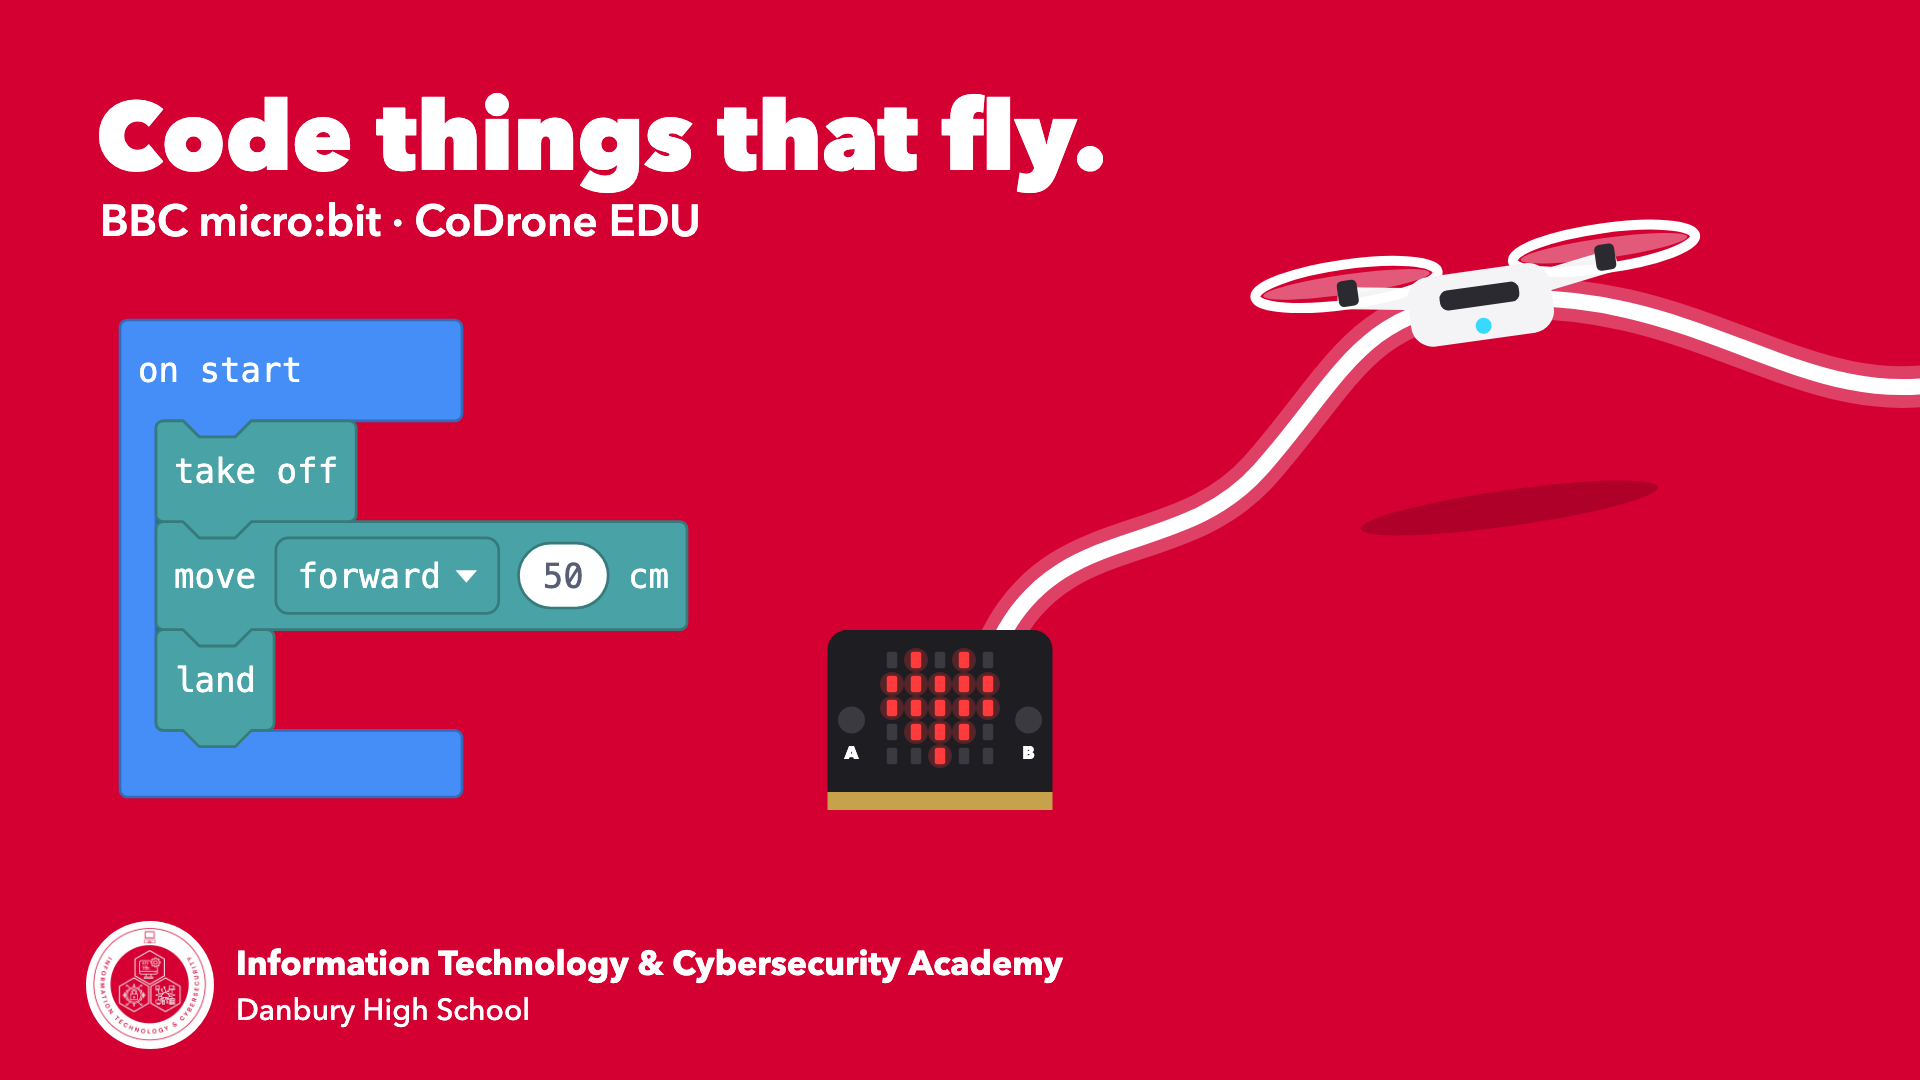
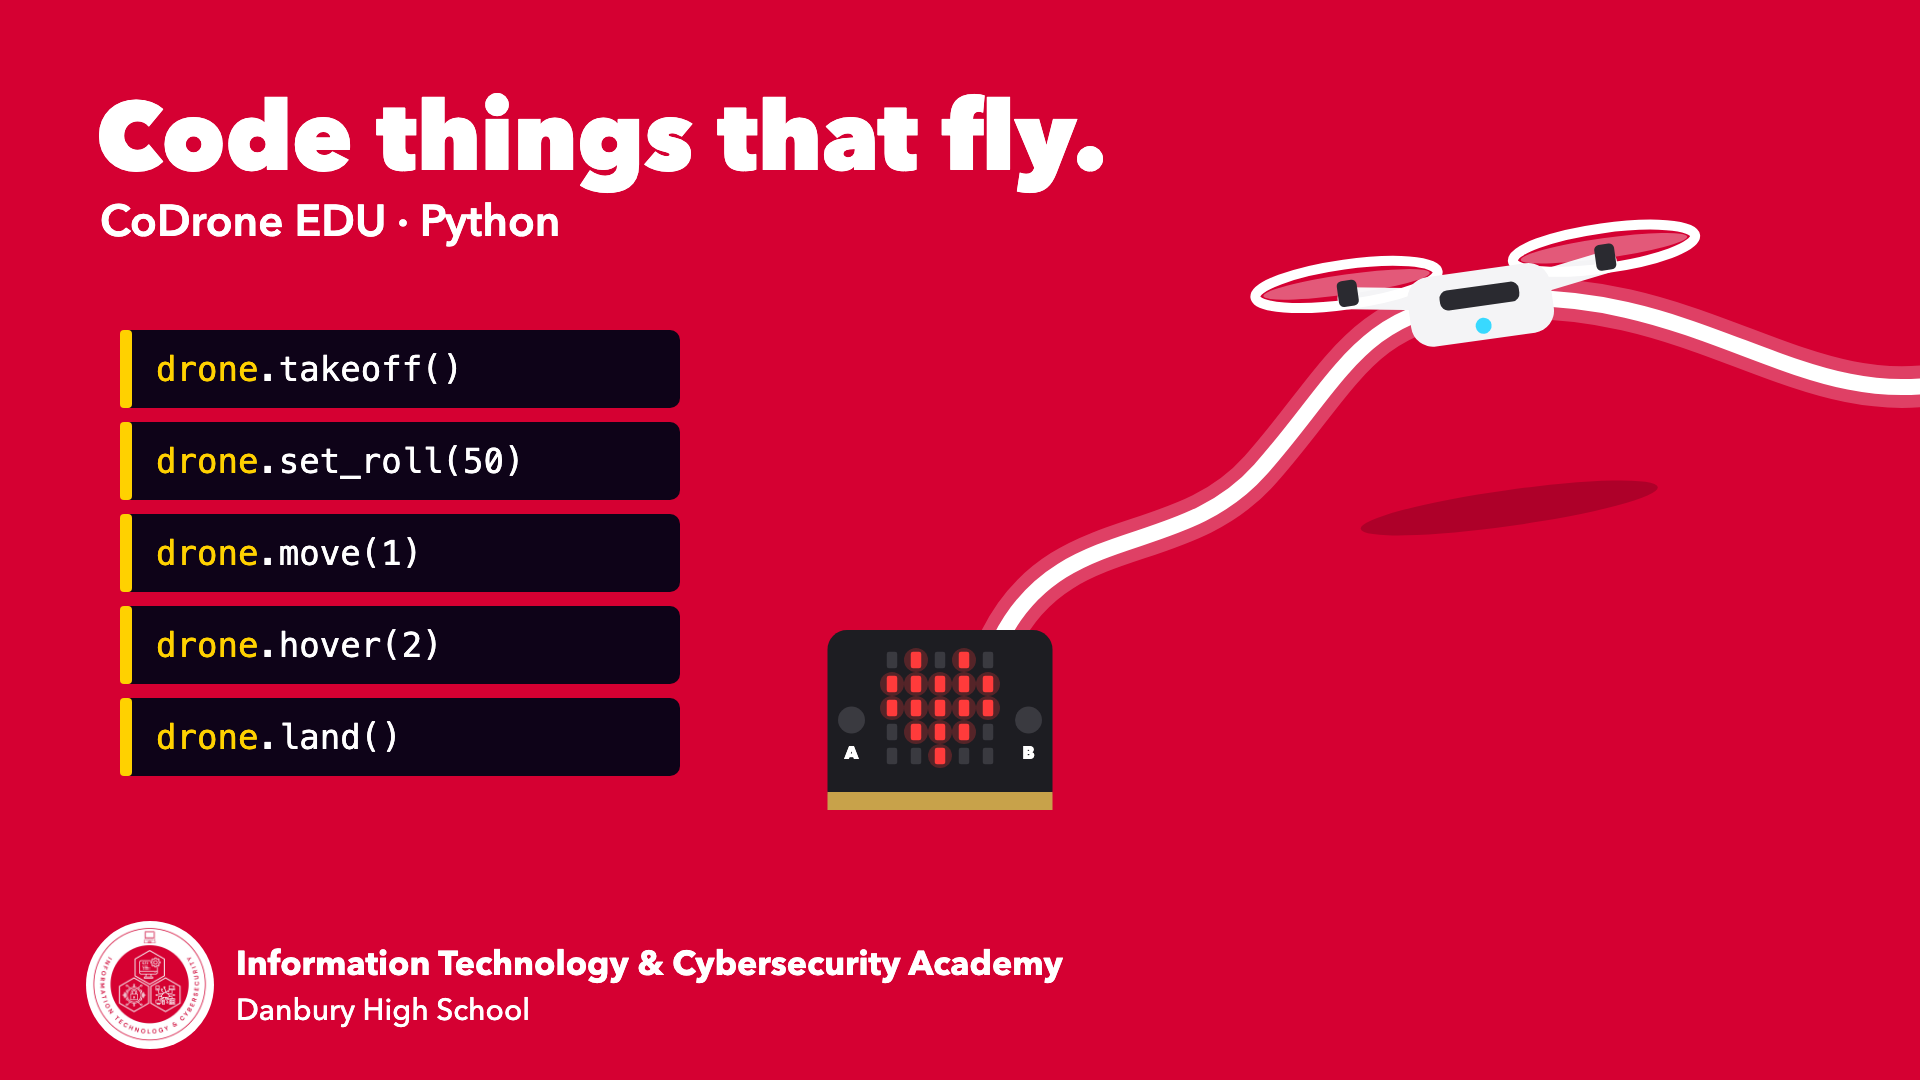
CSE hallway loop: drone beat in Python, micro:bit sensing beat, three sound directions
Still 3 redrawn; stills render with a mock keychain to avoid the macOS prompt.

Changed region(s): [[0.0625, 0.275, 0.375, 0.7639], [0.0312, 0.1833, 0.375, 0.2444]]

diff --git a/proj/cse-loop/stills/make_stills.py b/proj/cse-loop/stills/make_stills.py
@@ -7,7 +7,7 @@ import os, sys, subprocess, math
 
 # ============================ SETTINGS (edit these) ============================
 BLOCK_SCALE = 1.8          # MakeCode blocks at 1.8x -> 34 px block text at 1080p (brief: body >= 32 px)
-MAKE_PNGS   = True         # also save PNGs with headless Chrome
+MAKE_PNGS   = True         # also save PNGs with headless Chrome (mock keychain, throwaway profile)
 CHROME      = "/Applications/Google Chrome.app/Contents/MacOS/Google Chrome"
 # ===============================================================================
 
@@ -164,12 +164,15 @@ p2 = frame(BLUE, "".join(s2), "still-2-cars")
 # ---------------- Still 3: row 5 (0:35) -- drones, Academy red ----------------
 s3 = []
 s3.append(text(96, 170, "Code things that fly.", 96, WHITE))
-s3.append(text(100, 236, "BBC micro:bit  ·  CoDrone EDU", 44, WHITE, 600))
-fly = [hat(BASIC, "on start", stack=[
-       stmt(LOGIC, "take off"),
-       stmt(LOGIC, "move", D("forward"), N("50"), "cm"),
-       stmt(LOGIC, "land")])]
-s3.append(stack(fly, 120, 320))
+s3.append(text(100, 236, "CoDrone EDU  ·  Python", 44, WHITE, 600))
+# Python on dark strips that snap like blocks (Robolink's own example code, from Bryan)
+code = ["drone.takeoff()", "drone.set_roll(50)", "drone.move(1)", "drone.hover(2)", "drone.land()"]
+for i, ln in enumerate(code):
+    y = 330 + i * 92
+    s3.append(f'<rect x="120" y="{y}" width="560" height="78" rx="10" fill="{INK}"/>')
+    s3.append(f'<rect x="120" y="{y}" width="12" height="78" rx="4" fill="{YELLOW}"/>')
+    s3.append(f'<text x="156" y="{y+51}" font-family="Menlo, Monaco, monospace" font-size="34" fill="{WHITE}">'
+              f'<tspan fill="{YELLOW}">drone</tspan>{ln[5:]}</text>')
 path = "M 1000 640 C 1060 520 1180 560 1260 470 C 1340 380 1360 310 1480 300 C 1700 280 1800 420 1960 380"
 s3.append(line(path, WHITE))
 s3.append(microbit(940, 720, 0.75))
@@ -182,9 +185,12 @@ p3 = frame(RED, "".join(s3), "still-3-fly")
 
 print("wrote", p1, p2, p3, sep="\n")
 if MAKE_PNGS and os.path.exists(CHROME):
+    import tempfile
+    profile = tempfile.mkdtemp(prefix="stills-chrome-")   # throwaway profile; mock keychain avoids macOS prompts
     for p in (p1, p2, p3):
         out = p[:-4] + ".png"
-        subprocess.run([CHROME, "--headless=new", "--disable-gpu", "--hide-scrollbars", f"--window-size={W},{H}",
-                        f"--screenshot={out}", "--allow-file-access-from-files", "file://" + p],
-                       capture_output=True, timeout=60)
+        subprocess.run([CHROME, "--headless=new", "--disable-gpu", "--hide-scrollbars", "--use-mock-keychain",
+                        "--password-store=basic", "--no-first-run", "--no-default-browser-check",
+                        f"--user-data-dir={profile}", f"--window-size={W},{H}", f"--screenshot={out}",
+                        "--allow-file-access-from-files", "file://" + p], capture_output=True, timeout=60)
         print("png:", out, os.path.exists(out))

diff --git a/proj/cse-loop/storyboard.md b/proj/cse-loop/storyboard.md
@@ -22,8 +22,8 @@ as a wipe, so there are no plain cuts.
 | 0:04–0:10 (bars 3–5) | Two blocks fly in and snap into the event's mouth on the beat (`set Ball1 .PaintColor to red`, `call Sound1 .Play`). The line leaves the stack to the right and draws a phone's outline, smoothly, its round head leading. The screen fills white; a "Tap me!" button presses itself; a ball turns red and bounces, exactly as the blocks say. Hero changes to **"Build your own apps."** Tag bottom-right: **MIT App Inventor** (the bee small beside it, optional). **Still 1.** | Two clicks for the two snaps. A light, gliding tone follows the line's head (soft, filtered, never a riser). A short bright chord stab when the ball turns red. |
 | 0:10–0:18 (bars 6–9) | The line drops out of the phone's bottom and sweeps right to left; **Danbury Blue** (#0033A0) wipes in behind it, and the line lies down as a white road. A VEXcode stack snaps: `when started`, `drive forward for 200 mm`, `turn right for 90 degrees`. A yellow, Lego-like robot car rolls in and drives the road: forward, then a right turn, matching the blocks. Hero, white: **"Program self-driving cars."** Tag, yellow: **VEXcode VR · VEXcode EXP**. **Still 2.** | Bass starts walking; drums add a rim click. Three clicks for the stack. A soft, low motor-like hum under the car, mixed far back. |
 | 0:18–0:24 (bars 10–12) | The car drives off right; **PLTW Blue** (#3e34d9) wipes in. The same VEXcode stack slides left, and beside it the same program types in as Python, one line per block, each block lighting up as its line appears: `drivetrain.drive_for(FORWARD, 200, MM)` / `drivetrain.turn_for(RIGHT, 90, DEGREES)`. The line becomes a cursor underline. The blocks fade; the Python stays. Hero, white: **"Then write it in Python."** Tag: **Python**. | A counter-melody enters. Soft typing ticks on the beat (not every letter). |
-| 0:24–0:30 (bars 13–15) | The cursor line drops off the last Python line; **Academy Red** (#D50032) rises from the bottom. The PLTW lockup slides out; the Academy badge and **"Information Technology & Cybersecurity Academy · Danbury High School"** slide in. A micro:bit slides up; a stack snaps: `on button A pressed`, `show icon ♥`. Button A presses; the 5×5 lights fill in a heart, one row at a time (2.5 rows a second, no flashing). Hero, white: **"Code things you can hold."** Tag: **BBC micro:bit**. | Key lift (up a step) as the red rises. Click, click. A soft pop per lit row. |
-| 0:30–0:38 (bars 16–19) | The line climbs out of the micro:bit's edge connector. A stack snaps: `on start`, `take off`, `move forward 50 cm`, `land`. A CoDrone EDU lifts off and flies the line's path up and right; the line grows ahead of it as its flight path. Hero, white: **"Code things that fly."** Tag: **CoDrone EDU**. **Still 3.** | Drums drop to half-time as the drone lifts (contrast), then return. A soft whir under the drone, mixed far back. |
+| 0:24–0:30 (bars 13–15) | The cursor line drops off the last Python line; **Academy Red** (#D50032) rises from the bottom. The PLTW lockup slides out; the Academy badge and **"Information Technology & Cybersecurity Academy · Danbury High School"** slide in. The line becomes a wire from a micro:bit to a soil sensor in a potted plant. The soil dries and the plant droops; a stack snaps: `forever` holding `if analog read pin P0 < 300 then` / `digital write pin P1 to 1`. A small pump drips water, the plant lifts, and the micro:bit's lights make a smile. Hero, white, two lines: **"Build things that sense the world around them."** Tag: **BBC micro:bit**. | Key lift (up a step) as the red rises. Clicks for the snaps. A soft water-drop pluck on the beat as the pump runs. |
+| 0:30–0:38 (bars 16–19) | The line climbs out of the micro:bit's edge connector and lifts a CoDrone EDU. Now it's Python, not blocks: each line arrives on a dark code strip that snaps into place like a block (`drone.takeoff()`, `drone.set_roll(50)`, `drone.move(1)`, `drone.hover(2)`, `drone.land()`), and the drone does each one as it lands: lifts, slides right, holds, settles. The line grows ahead of it as its flight path. Hero, white: **"Code things that fly."** Tag: **CoDrone EDU · Python**. **Still 3.** | Drums drop to half-time as the drone lifts (contrast), then return. A soft whir under the drone, mixed far back. |
 | 0:38–0:48 (bars 20–24) | The drone flies out top-right; its path curves back down and wipes **Danbury Blue** in. End card, held about 7 s: hero **"Computer Science Essentials"** (110 px), the official **PLTW** logo, then **"No coding experience needed."** The word *experience* morphs to *experiencia* and *experiência* (ES/PT lines **DRAFT**: "No necesitas experiencia previa." / "Não precisa de experiência prévia."), then **"Ask your counselor about Computer Science Essentials."** In bar 24 the card slides away right and the line sweeps in from the left, wiping yellow (the seam). | A breather: drums thin to shaker, chords and bass only, so the message has room. The last bar's bass fill leads straight back into bar 1, with no ending chord. |
 
 **Core message more than once per loop:** "Never coded? Start here." (row 1) and "No coding experience needed." (row 7).
@@ -37,34 +37,49 @@ Avenir standing in for Poppins; "PLTW" is a stand-in for the official logo.
   readable size (34 px text), and the line drawing the phone.
 - `stills/still-2-cars.png` (row 3, 0:17): proves the signature idea at its best (line → road; blocks → a car that
   does what they say), the yellow Lego-like car, and white and yellow type on Danbury Blue.
-- `stills/still-3-fly.png` (row 6, 0:35): proves the Academy world (red, badge, Academy name, no PLTW logo), the
-  micro:bit and the drone on the line.
+- `stills/still-3-fly.png` (row 6, 0:35): proves the Academy world (red, badge, Academy name, no PLTW logo), Python
+  lines snapping like blocks, and the drone flying the line.
 
 **Contrast (computed):** dark ink on yellow 13.8; white on Danbury Blue 10.6; yellow on Danbury Blue 7.3; white on
 PLTW Blue 7.8; white on Academy Red 5.4. Block text, white at 34 px (large text): on MakeCode blue 3.2, green 3.1,
 teal 3.0, red 5.2, purple 4.7. The blue, green and teal blocks only just pass the large-text minimum (3.0); that's
 the editors' own coloring, kept so the blocks look real.
 
-## Sound concept
-- **What sound does here:** music with a few soft sound effects tied to the snaps. The halls are loud and the sound
-  may be muted, so the picture never depends on it; the music adds bounce for whoever can hear it.
-- **Pulse:** 120 beats a minute, one bar every 2 seconds. Every snap lands on a beat, and each beat change (rows)
-  falls on a 2-bar or 4-bar phrase, so the cuts feel locked to the music.
-- **Instruments and textures:** a round, warm plucked bass; bright, clean electric piano chords; a soft wooden mallet
-  line doubled by the piano (so it doesn't vanish on small speakers); a light, dry drum kit (soft kick, rim click,
-  shaker); a wooden click for every snap; a soft gliding tone that follows the line's head.
-- **Meeting the picture:** row 1–2, the groove and the snap clicks; row 3, the bass starts walking under the road;
-  row 4, a counter-melody arrives with the Python; row 5, a key lift as the red rises; row 6, half-time drums as the
-  drone lifts off, then back; row 7, a breather under the end card.
-- **The ending:** no ending. The last bar's bass fill leads straight into bar 1, mid-phrase, so the loop point
-  can't be found by ear.
-- **Taste items:** T07 (the end-card breather thins out and comes back), T08 (key lift and half-time passage), T09
-  (no bells, alarms, piercing tones, risers or drops), T10 (nothing tinny or buzzy; never opens on a harsh sound),
-  T11 (checked on laptop speakers; the mallet is doubled), T13 (real chord changes and a counter-melody, not one
-  riff). Loudness −16 LUFS, true peak ≤ −1.5 dBTP.
-- **For the client:** a bright, bouncy groove with a little wooden click every time a block snaps in. It changes key
-  for the Academy part and relaxes under the end card, then rolls back into the start without a bump.
+## Sound concept: three directions (Bryan picks one)
+All three share the same rules: the picture never depends on the sound (loud halls, maybe muted); 120 beats a
+minute so snaps land on beats and each row turns on a 2- or 4-bar phrase; no ending, so the last bar leads straight
+into bar 1; a breather under the end card (T07); a change of pace in the Academy part (T08); no bells, alarms,
+piercing tones, risers or drops (T09); nothing tinny or buzzy (T10); checked on laptop speakers (T11); real chord
+changes and a counter-line, not one riff (T13). Loudness −16 LUFS, true peak ≤ −1.5 dBTP. Samples (about 15 s each)
+come right after the toolbox opens, so the final pick is made by ear (T04).
+
+### S1. Snap Groove (the current idea)
+- **Sound:** a bright, bouncy groove. Round plucked bass, clean electric piano chords, a soft wooden mallet line
+  doubled by the piano, a light dry drum kit, and a wooden click every time a block snaps in. 120 beats a minute.
+- **Meeting the picture:** the clicks are the snaps; the bass starts walking on the road (row 3); a counter-melody
+  arrives with Python (row 4); a key lift as the red rises (row 5); half-time drums as the drone lifts (row 6).
+- **Feels:** playful, clicky, friendly. **Risk:** the most "kids' edtech" of the three.
+
+### S2. Glass Lobby
+- **Sound:** the music playing in your Neo-New York glass lobby. Smooth, sleek late-80s fusion pop: a warm, slightly
+  slapped bass, lush jazzy chords on a soft electric piano and a clean chorused guitar, airy pads, a crisp but gentle
+  drum machine, finger snaps for the block snaps. 120 beats a minute but laid back, with real chord changes and a melodic hook.
+- **Meeting the picture:** the hook enters with the first app; a guitar fill answers each tool name; a key lift and a
+  short guitar or string solo in the Academy part; the end card thins to pads, bass and snaps.
+- **Feels:** confident, polished, utopian. **Risk:** the slickest; it has to stay bright so it doesn't go "corporate".
+
+### S3. Maker Bench
+- **Sound:** music built from the sounds of making things. Interlocking wooden mallet and plucked-string patterns,
+  hand claps, and percussion made from the picture's own events: block clicks, the car's tick, the pump's drip, the
+  drone's soft whir, each tuned and placed on the beat, so the rhythm grows as things get built. 120 beats a minute.
+- **Meeting the picture:** each row adds its object's sound to the beat (clicks, then the car, then typing, then the
+  drip, then the whir), so the music literally gets built as the loop goes; the end card strips back to the
+  mallets alone, then the clicks rebuild it.
+- **Feels:** hands-on, clever, warm. **Risk:** the least "futuristic"; it leans "maker" over "glass tower".
+
+**For the client:** S1 is bouncy and clicky; S2 is the smooth, sleek music of a glass-tower lobby; S3 is a beat built
+out of the sounds of the things being made.
 
 ## Open before the build
 - Poppins and the official PLTW logo files need downloading from Google Fonts and pltw.org (asked at the build).
-- Block labels are drafts written to look like each editor; the CoDrone EDU blocks especially need Bryan's check.
+- Block labels are drafts written to look like each editor. The drone code is Robolink's own example (Bryan's paste).

diff --git a/proj/cse-loop/brief.md b/proj/cse-loop/brief.md
@@ -76,6 +76,8 @@ is **Claude's call**, from this table only. Spellings follow each maker's own.
 | "an excellent entry point for new high school computer science (CS) learners" | outline p. 1 (word for word if quoted) |
 | BBC micro:bit: eases the move from blocks to Python; code that uses sensors and works with the real world | Bryan, round 4 (Danbury only); spelling from the Micro:bit Educational Foundation |
 | CoDrone EDU (drones by Robolink, coded in blocks or Python) | Bryan, round 4 (Danbury only); name from Robolink resellers |
+| CoDrone EDU Python, shown verbatim: `drone.takeoff()`, `drone.set_roll(50)`, `drone.move(1)`, `drone.hover(2)`, `drone.land()` | Bryan, Oct 25, quoting github.com/RobolinkInc/codrone-edu-python-examples ("Hopefully I'm on python by the time we get to them") |
+| micro:bit projects that sense the world and solve a real problem, e.g. "a self-watering planting system with the bbc microbit, or a working polygraph" | Bryan, Oct 25 (examples of the kind of project, not a claim about a specific student's work) |
 | Information Technology & Cybersecurity Academy, Danbury High School | Bryan, round 6: "I think the name on the badge is right" (badge: "INFORMATION TECHNOLOGY & CYBERSECURITY") |
 | Pathways: Computer Programming & Gaming · Cybersecurity · Networking | Bryan's pasted blurb |
 | CSE is the 10th-grade prerequisite for all three pathways | Bryan, rounds 5–6 ("CSE is 10th grade class at danbury"); may be shown as Danbury's. (PLTW's outline says 9th grade in general.) |
@@ -227,3 +229,10 @@ None at approval. **DRAFT** lines (on-screen copy, ES/PT) get checked at the sto
 - 2026-10-25 · "The PLTW colors aren't TOO ugly if they're like the base background color with white or yellow text on
   top. But black on top of dark purple does feel sluggish and ugly." · PLTW Blue used as one field (the Python beat)
   with white text; never dark text on PLTW's dark colors.
+- 2026-10-25 · Drones: "I do know that the drones actually I think just use base python ... Hopefully I'm on python by
+  the time we get to them." · The drone beat shows Robolink's own Python, not blocks.
+- 2026-10-25 · "One line I'd like to keep is 'Build things that sense the world around themselves,' or something like
+  that. I like sensors and hands-on stuff. 'Build things that solve a real-world problem' ... 'Build things that
+  work.' IDK." · micro:bit beat hero becomes a sensing line (**DRAFT** wording), shown with a self-watering plant.
+- 2026-10-25 · "Give me 3 different soundways methods to choose from. I like your current idea as one of those
+  three." · Three sound directions in the storyboard.

diff --git a/proj/cse-loop/STATUS.md b/proj/cse-loop/STATUS.md
@@ -2,13 +2,13 @@
 
 _Last updated: Oct 25, 2026._
 
-- **Stage:** storyboard (Snap + One Line). `storyboard.md` + `stills/` (make_stills.py) + sound concept, waiting for Bryan's approval; then `/toolbox`.
+- **Stage:** storyboard (Snap + One Line), revised Oct 25: drone beat in Python, micro:bit sensing beat, three sound directions (S1–S3) to pick by ear after `/toolbox`. Waiting for approval.
 - **What it is:** a 30–60 s looping HTML player about PLTW's Computer Science Essentials for the Information
   Technology & Cybersecurity Academy hallway TVs at Danbury High School; also shared with CS educators via GitHub Pages.
 - **Sources:** `sources/CSE_CourseOutline_CS.pdf` (PLTW course outline, BR015.06.2026), `sources/itc-academy-badge.webp`
   (Bryan's Academy badge). PLTW colors from pltw.org/about/brand-assets.
 - **Peeking audit:** 0 reads of restricted folders so far (`access.jsonl`).
 - **Next:** brief approval → concepts (read `brief/CRAFT.md` first) → storyboard, stills, sound concept → `/toolbox`.
-- **Note:** `make_stills.py` saves PNGs with headless Chrome, which can trigger a macOS permission popup; set `MAKE_PNGS = False` to skip it.
+- **Note:** `make_stills.py` saves PNGs with headless Chrome (mock keychain, throwaway profile, to avoid the macOS popup Bryan saw on the first run); set `MAKE_PNGS = False` to skip it. Quick Look (`qlmanage`) mis-scales SVGs, so it is not used.
 - **Debug note (Oct 25):** two early Bash calls failed because `echo ======` in zsh is an `=command` lookup; use `---`
   or quote it. Not a repo bug.
